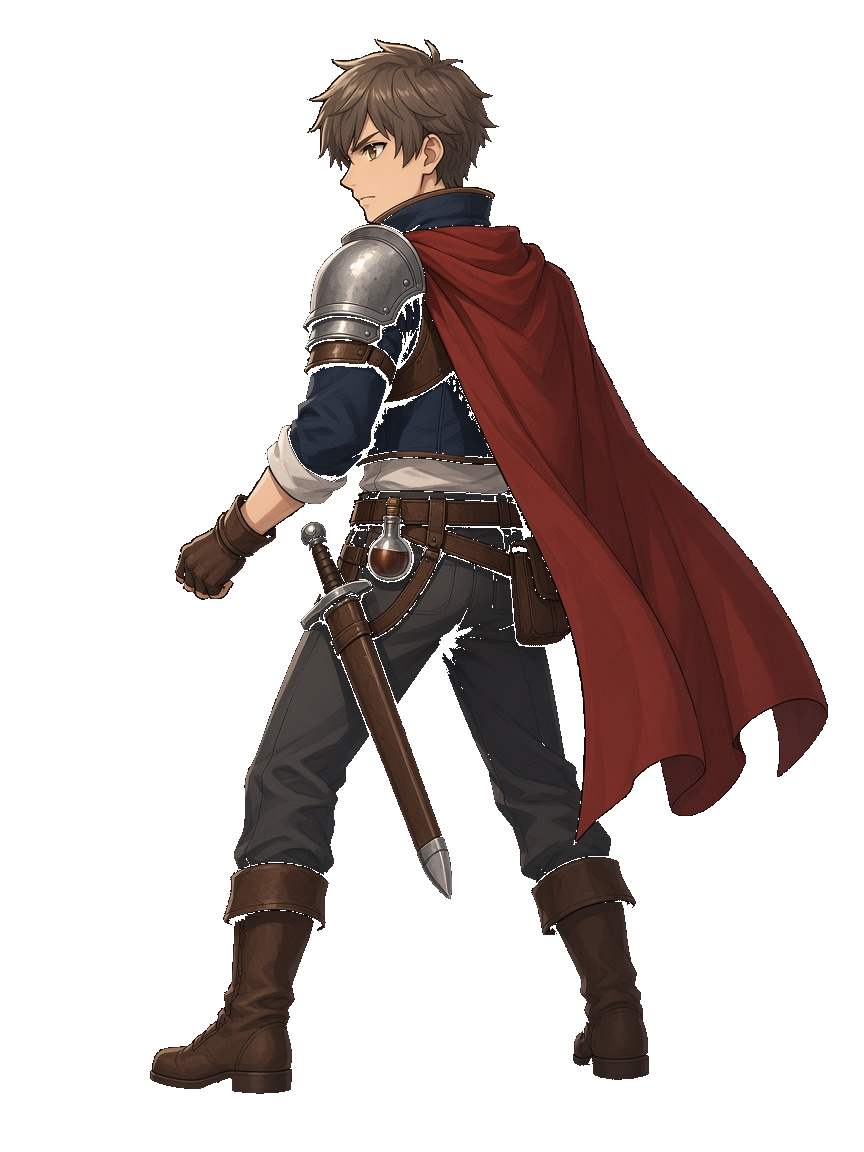
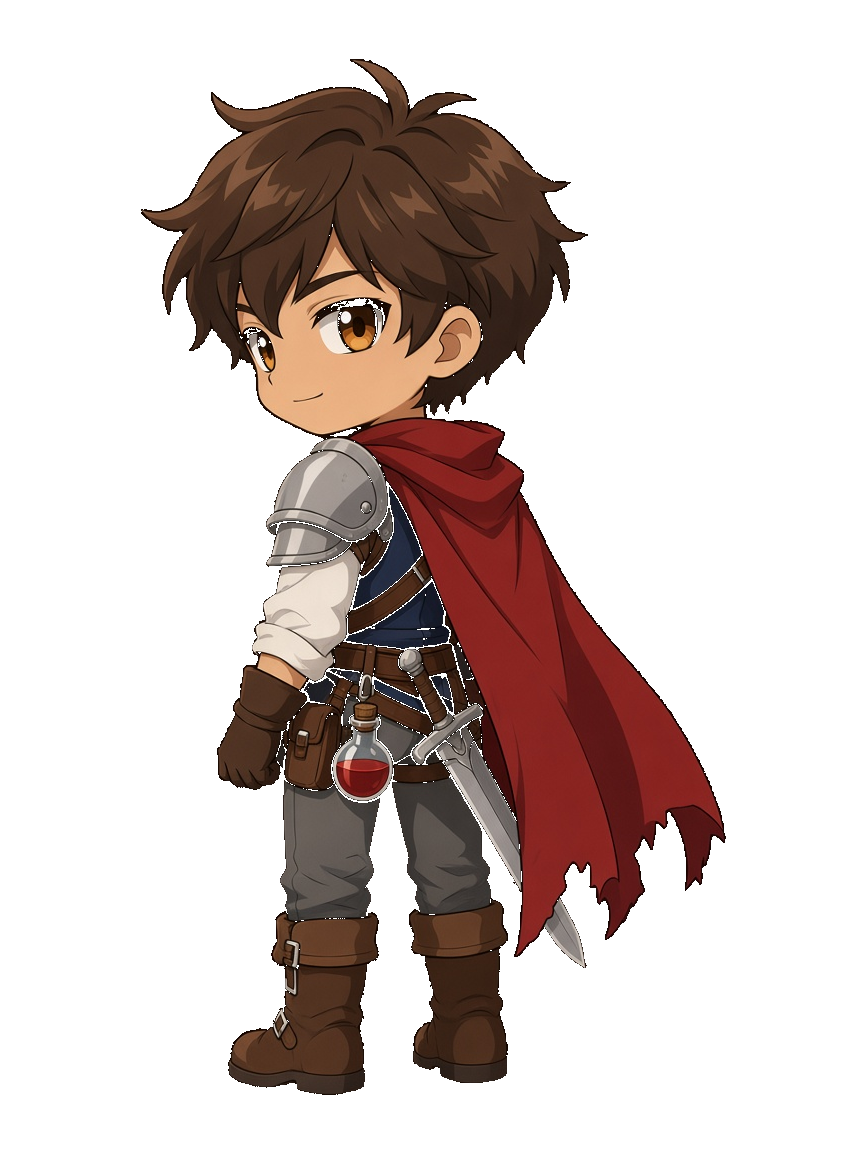
Draw the playable warrior at about four heads.

diff --git a/index.html b/index.html
@@ -2862,11 +2862,11 @@
         <div class="cast-screen">
           <button type="button" class="cast-back" data-action="title">もどる</button>
           <div class="cast-row">
-            <button type="button" class="cast-mini" data-action="cast-stay" aria-label="${CHARACTER_NAME}"><span class="cast-front"><img class="cast-portrait" src="job-warrior.png?v=1" alt=""></span></button>
+            <button type="button" class="cast-mini" data-action="cast-stay" aria-label="${CHARACTER_NAME}"><span class="cast-front"><img class="cast-portrait" src="job-warrior.png?v=2" alt=""></span></button>
           </div>
           <div class="cast-body">
             <button type="button" class="cast-arrow" data-action="cast-stay" aria-label="前のキャラ">◀</button>
-            <div class="cast-front big"><img class="cast-portrait" src="job-warrior.png?v=1" alt="戦士"></div>
+            <div class="cast-front big"><img class="cast-portrait" src="job-warrior.png?v=2" alt="戦士"></div>
             <div class="cast-info">
               <p>初期ジョブ</p>
               <h1>${CHARACTER_NAME}</h1>
@@ -3100,7 +3100,7 @@
           const img = new Image();
           img.onload = () => { heroImage = img; resolve(img); };
           img.onerror = () => reject(new Error("hero"));
-          img.src = "hero-shoulder.png?v=8";
+          img.src = "hero-shoulder.png?v=9";
         });
       }
       return heroImageTask;
@@ -3119,7 +3119,7 @@
     }
 
     function heroShoulder() {
-      return `<div class="hero-shoulder"><img class="hero-fig" src="hero-shoulder.png?v=8" alt="戦士"></div>`;
+      return `<div class="hero-shoulder"><img class="hero-fig" src="hero-shoulder.png?v=9" alt="戦士"></div>`;
     }
 
     function startHeroIdle() {
